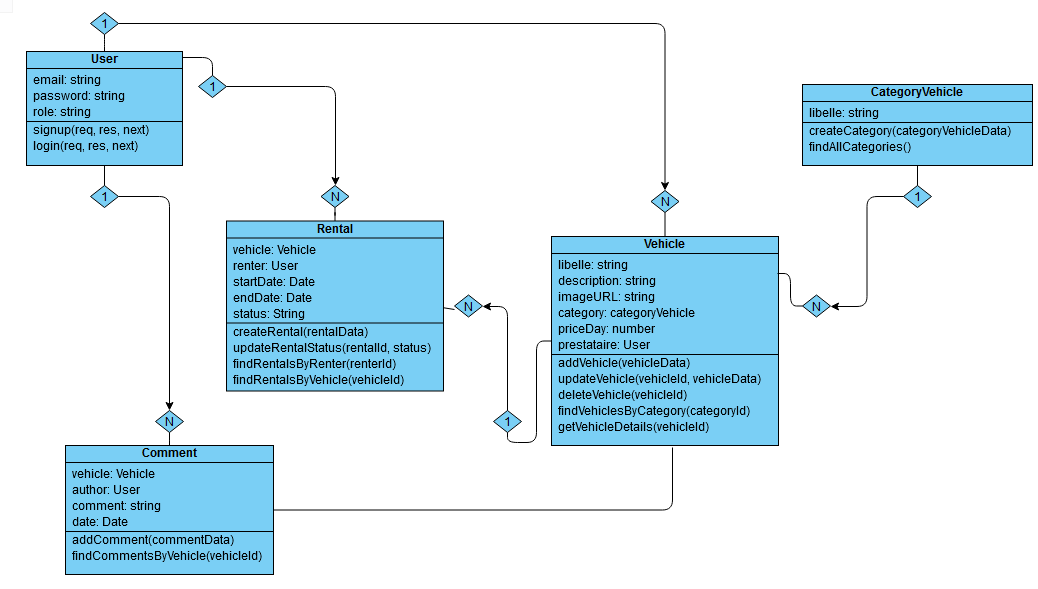
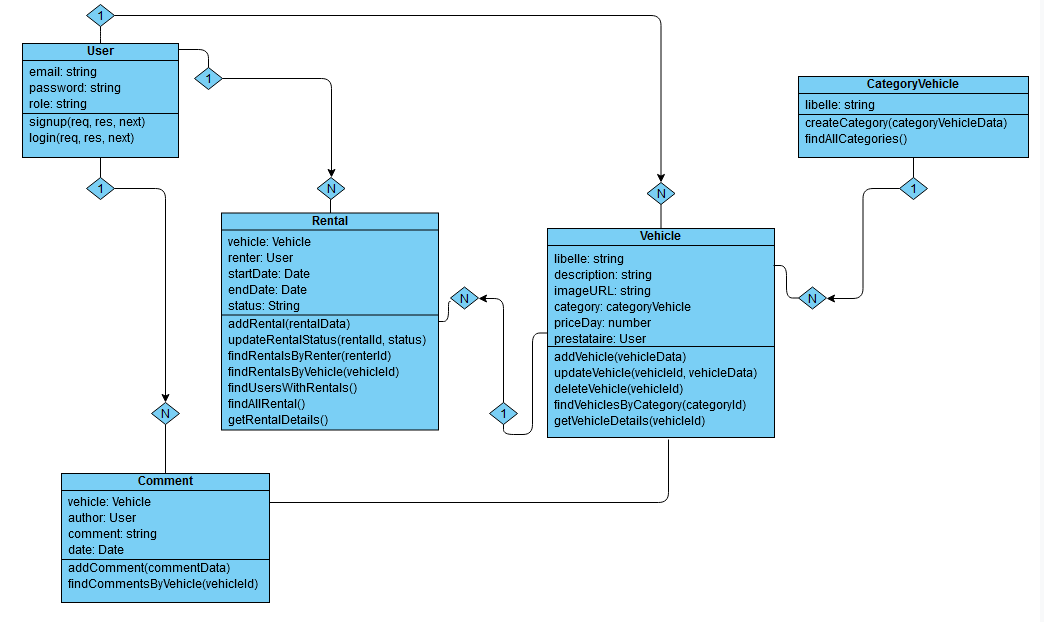
Model page

Changed region(s): [[0.0308, 0.0306, 0.8324, 0.9779], [0.0, 0.0, 0.6166, 0.3667], [0.7399, 0.1222, 1.0, 0.3667]]

diff --git a/controllers/main.js b/controllers/main.js
@@ -5,3 +5,4 @@ exports.usersPage    = (req, res, next) => { return res.status(200).sendFile(pat
 exports.vehiclesPage = (req, res, next) => { return res.status(200).sendFile(path.join(__dirname, '../views', 'vehicles.html'));};
 exports.rentalsPage  = (req, res, next) => { return res.status(200).sendFile(path.join(__dirname, '../views', 'rentals.html'));};
 exports.commentsPage = (req, res, next) => { return res.status(200).sendFile(path.join(__dirname, '../views', 'comments.html'));};
+exports.modelPage    = (req, res, next) => { return res.status(200).sendFile(path.join(__dirname, '../views', 'model.html'));};

diff --git a/views/model.html b/views/model.html
@@ -1,0 +1,21 @@
+<!DOCTYPE html>
+<html>
+
+<head>
+  <meta charset="utf-8">
+  <meta name="viewport" content="width=device-width, initial-scale=1.0, maximum-scale=1.0">
+  <title>Learning Formation NodeJS</title>
+  <link rel="icon" type="image/png" href="/public/img/logo.png">
+  <link rel="stylesheet" href="/public/css/style.css">
+
+  <script src="/public/js/script.js" defer></script>
+</head>
+
+<body>
+    <div id="uiTitle"><h1>BDD MODEL</h1></div>
+    <div id="uiContainer">
+        <img src="/public/img/BDD-model.png" alt="BDD model">
+    </div>
+</body>
+
+</html>

diff --git a/routes/main.js b/routes/main.js
@@ -4,6 +4,7 @@ const router  = express.Router();
 const mainCtrl  = require('../controllers/main');
 
 router.get('/', mainCtrl.indexPage);
+router.get('/test/model', mainCtrl.modelPage);
 router.get('/test/users', mainCtrl.usersPage);
 router.get('/test/comments', mainCtrl.commentsPage);
 router.get('/test/vehicles', mainCtrl.vehiclesPage);

diff --git a/controllers/rental.js b/controllers/rental.js
@@ -1,7 +1,7 @@
 const Rental = require('../models/Rental');
 const User   = require('../models/User');
 
-exports.findAllRental= (req, res, next) => {
+exports.findAllRental = (req, res, next) => {
   Rental.find()
   .populate('vehicle', 'libelle')
   .populate('renter', 'pseudo')

diff --git a/views/index.html b/views/index.html
@@ -21,6 +21,7 @@
             <div class="uiParts" onclick='openWindow("comments"); '><div class="uiPartsText">Comment</div></div>
         </div>
     </div>
+    <div id="modelContainer"><div class="uiParts" onclick='openWindow("model"); '>Model</div></div>
 </body>
 
 </html>

diff --git a/public/css/style.css b/public/css/style.css
@@ -66,3 +66,8 @@ h1{
 #users-ui-container{
     padding: 15px;
 }
+#modelContainer{
+    display: flex;
+    justify-content: center;
+    margin-top: 25px;
+}
